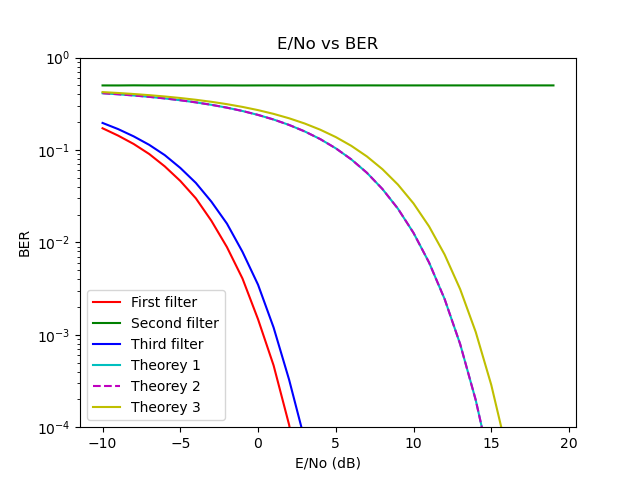
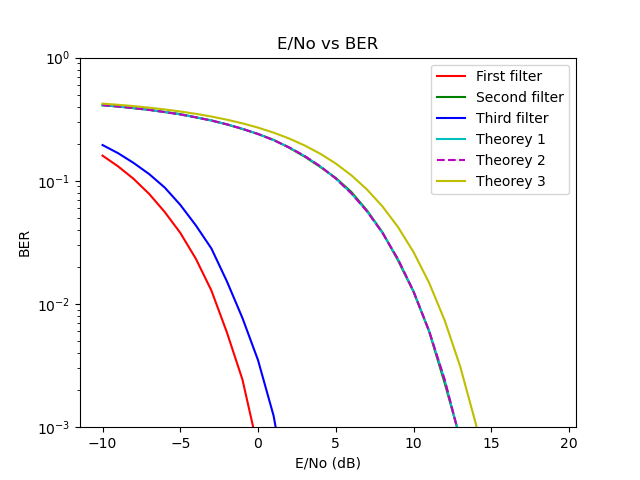
Small error

diff --git a/library.py b/library.py
@@ -45,6 +45,8 @@ def receive_filter(signal_noise, filter_num, step):
    filter = filters[filter_num]
    filter = np.concatenate((filter, np.zeros(int(1/step)-len(filter))))
    signal_noise_filter=np.convolve(signal_noise, filter)
+   if (filter_num==0 or filter_num==2):
+      signal_noise_filter*step
    return signal_noise_filter
 
 
@@ -53,7 +55,7 @@ def receive_filter(signal_noise, filter_num, step):
 def sampler(sampling_period, signal_noise_filtered, n=10):
    samples = np.zeros(n)
    for i in range(len(samples)):
-      samples[i] = signal_noise_filtered[(i+1)*sampling_period]
+      samples[i] = signal_noise_filtered[sampling_period-1+i*sampling_period]
    return samples
 
 # %%

diff --git a/simulation.py b/simulation.py
@@ -3,7 +3,7 @@ import numpy as np
 import matplotlib.pyplot as plt
 from library import AWGN, BinarySource, binarycode_to_signal, receive_filter, Q, decision_maker, sampler
 # simulation parameters
-n = 1000000
+n = 100000
 step = 0.05
 t = np.arange(0, n, step)
 
